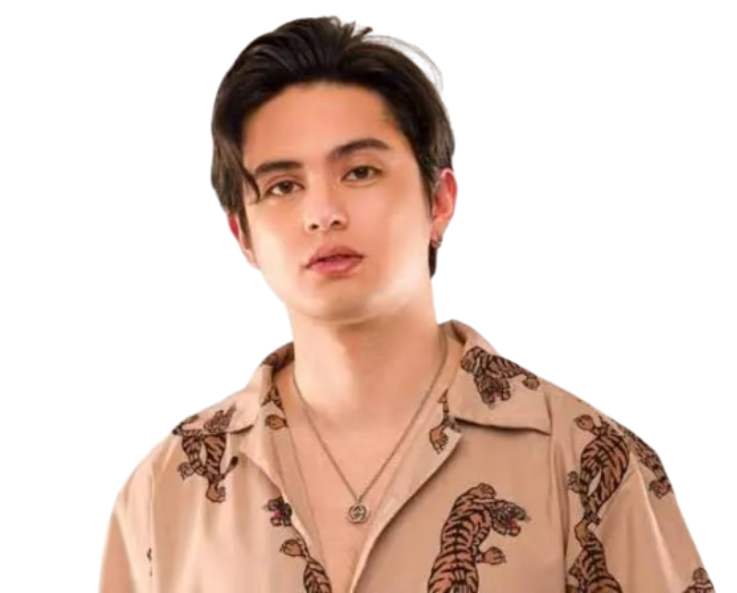
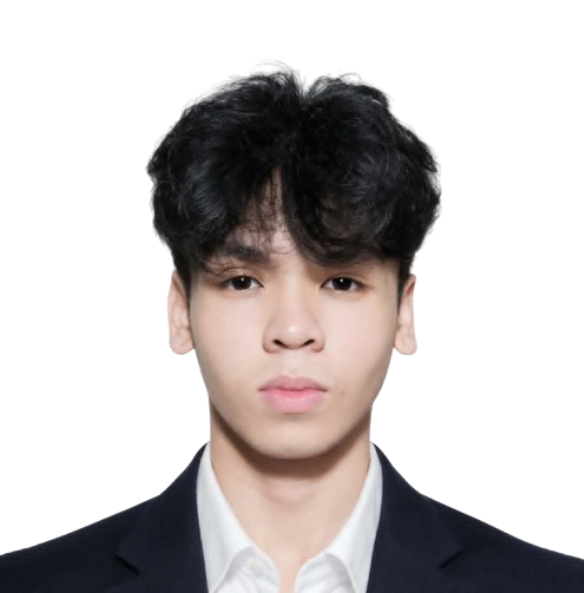
Add Works component with styling and integrate into main layout

diff --git a/my-portfolio/src/components/Works.jsx b/my-portfolio/src/components/Works.jsx
@@ -1,0 +1,128 @@
+import React, { useState } from "react";
+import "./Works.css";
+
+import taskManagerImg from "../assets/task-manager.png";
+import productCatalogImg from "../assets/product-catalog.png";
+import birthdayAppImg from "../assets/birthday-app.png";
+import gameTrackerImg from "../assets/game-tracker.png";
+
+export default function Works() {
+  const [activeFilter, setActiveFilter] = useState("all");
+
+  const projects = [
+    {
+      id: 1,
+      title: "Task Manager App",
+      category: "laravel-react",
+      categoryLabel: "React & Laravel",
+      tags: ["React", "Laravel", "REST API", "Tailwind/CSS"],
+      image: taskManagerImg,
+      github:
+        "https://github.com/VinceAng02/React-and-Laravel-Utlizing-the-backend-of-the-system-with-laravel.git",
+    },
+    {
+      id: 2,
+      title: "E-Commerce Product Catalog",
+      category: "web-apps",
+      categoryLabel: "Web Application",
+      tags: ["JavaScript", "HTML/CSS", "Product Catalog", "Interactive UI"],
+      image: productCatalogImg,
+      github:
+        "https://github.com/VinceAng02/React-Fetch-API-Utilizing-the-get-and-post-method-using-API-via-mock-data.git",
+    },
+    {
+      id: 3,
+      title: "Princess Day Celebration App",
+      category: "web-apps",
+      categoryLabel: "Interactive Celebration App",
+      tags: ["React", "CSS Animations", "Audio API", "UI/UX"],
+      image: birthdayAppImg,
+      github: "https://github.com/VinceAng02/HappyBirthdayGreetins",
+    },
+    {
+      id: 4,
+      title: "Game Tracking Clock",
+      category: "web-apps",
+      categoryLabel: "Cyberpunk Game Utility",
+      tags: ["React", "JavaScript", "Game Mechanics", "Dark Theme"],
+      image: gameTrackerImg,
+      github: "https://github.com/VinceAng02/Chrono-Grimoires-Game-Clock",
+    },
+  ];
+
+  const filterCategories = [
+    { id: "all", label: "All Works" },
+    { id: "laravel-react", label: "React & Laravel" },
+    { id: "web-apps", label: "Web Applications" },
+  ];
+
+  const filteredProjects =
+    activeFilter === "all"
+      ? projects
+      : projects.filter((project) => project.category === activeFilter);
+
+  return (
+    <section id="works" className="works-section">
+      <div className="works-container">
+        <h2 className="section-title">Works</h2>
+        <span className="section-subtitle">My Portfolio Projects</span>
+
+        {/* Category Filter Card Holder */}
+        <div className="works-filters">
+          {filterCategories.map((filter) => (
+            <button
+              key={filter.id}
+              className={`filter-btn ${
+                activeFilter === filter.id ? "active" : ""
+              }`}
+              onClick={() => setActiveFilter(filter.id)}
+            >
+              {filter.label}
+            </button>
+          ))}
+        </div>
+
+        {/* Project Cards */}
+        <div className="works-grid">
+          {filteredProjects.map((project) => (
+            <div key={project.id} className="work-card">
+              <div className="work-img-wrapper">
+                <img
+                  src={project.image}
+                  alt={project.title}
+                  className="work-img"
+                />
+                <span className="work-badge">{project.categoryLabel}</span>
+              </div>
+
+              <div className="work-details">
+                <h3 className="work-title">{project.title}</h3>
+
+                {/* Tech Tags */}
+                <div className="work-tags">
+                  {project.tags.map((tag, idx) => (
+                    <span key={idx} className="tech-tag">
+                      {tag}
+                    </span>
+                  ))}
+                </div>
+
+                {/* GitHub Link Button */}
+                <div className="work-buttons">
+                  <a
+                    href={project.github}
+                    target="_blank"
+                    rel="noopener noreferrer"
+                    className="btn-work-secondary"
+                  >
+                    View on GitHub →
+                  </a>
+                </div>
+              </div>
+            </div>
+          ))}
+        </div>
+      </div>
+    </section>
+  );
+}

diff --git a/my-portfolio/src/components/Works.css b/my-portfolio/src/components/Works.css
@@ -1,0 +1,160 @@
+.works-section {
+    padding: 5rem 2rem;
+    max-width: 1100px;
+    margin: 0 auto;
+  }
+  
+  /* Category Filter Tabs */
+  .works-filters {
+    display: flex;
+    justify-content: center;
+    flex-wrap: wrap;
+    gap: 0.75rem;
+    margin-bottom: 3rem;
+  }
+  
+  .filter-btn {
+    background-color: #f8fafc;
+    border: 1px solid #e2e8f0;
+    color: #64748b;
+    padding: 0.5rem 1.25rem;
+    border-radius: 2rem;
+    font-size: 0.9rem;
+    font-weight: 500;
+    cursor: pointer;
+    transition: all 0.25s ease;
+  }
+  
+  .filter-btn:hover {
+    border-color: #2563eb;
+    color: #2563eb;
+  }
+  
+  .filter-btn.active {
+    background-color: #2563eb;
+    border-color: #2563eb;
+    color: #ffffff;
+    box-shadow: 0 4px 12px rgba(37, 99, 235, 0.2);
+  }
+  
+  /* Card Holder Grid */
+  .works-grid {
+    display: grid;
+    grid-template-columns: repeat(auto-fill, minmax(310px, 1fr));
+    gap: 2rem;
+  }
+  
+  .work-card {
+    background-color: #ffffff;
+    border: 1px solid #e2e8f0;
+    border-radius: 1rem;
+    overflow: hidden;
+    display: flex;
+    flex-direction: column;
+    transition: transform 0.3s ease, box-shadow 0.3s ease;
+  }
+  
+  .work-card:hover {
+    transform: translateY(-6px);
+    box-shadow: 0 12px 24px -6px rgba(0, 0, 0, 0.08);
+  }
+  
+  .work-img-wrapper {
+    position: relative;
+    width: 100%;
+    height: 200px;
+    overflow: hidden;
+    background-color: #f1f5f9;
+  }
+  
+  .work-img {
+    width: 100%;
+    height: 100%;
+    object-fit: cover;
+    transition: transform 0.4s ease;
+  }
+  
+  .work-card:hover .work-img {
+    transform: scale(1.05);
+  }
+  
+  .work-badge {
+    position: absolute;
+    top: 0.75rem;
+    right: 0.75rem;
+    background-color: rgba(15, 23, 42, 0.85);
+    color: #ffffff;
+    font-size: 0.75rem;
+    font-weight: 600;
+    padding: 0.35rem 0.75rem;
+    border-radius: 1rem;
+    backdrop-filter: blur(4px);
+  }
+  
+  .work-details {
+    padding: 1.5rem;
+    display: flex;
+    flex-direction: column;
+    flex-grow: 1;
+  }
+  
+  .work-title {
+    font-size: 1.2rem;
+    font-weight: 700;
+    color: #1e293b;
+    margin: 0 0 0.75rem 0;
+  }
+  
+  .work-tags {
+    display: flex;
+    flex-wrap: wrap;
+    gap: 0.5rem;
+    margin-bottom: 1.5rem;
+  }
+  
+  .tech-tag {
+    background-color: #eff6ff;
+    color: #2563eb;
+    font-size: 0.75rem;
+    font-weight: 600;
+    padding: 0.25rem 0.6rem;
+    border-radius: 0.375rem;
+  }
+  
+  .work-buttons {
+    display: flex;
+    gap: 0.75rem;
+    margin-top: auto;
+  }
+  
+  .btn-work-primary,
+  .btn-work-secondary {
+    flex: 1;
+    text-align: center;
+    padding: 0.55rem 1rem;
+    font-size: 0.875rem;
+    font-weight: 600;
+    border-radius: 0.5rem;
+    text-decoration: none;
+    transition: all 0.2s ease;
+  }
+  
+  .btn-work-primary {
+    background-color: #2563eb;
+    color: #ffffff;
+  }
+  
+  .btn-work-primary:hover {
+    background-color: #1d4ed8;
+  }
+  
+  .btn-work-secondary {
+    background-color: #ffffff;
+    color: #475569;
+    border: 1px solid #cbd5e1;
+  }
+  
+  .btn-work-secondary:hover {
+    background-color: #f8fafc;
+    color: #1e293b;
+  }

diff --git a/my-portfolio/src/App.jsx b/my-portfolio/src/App.jsx
@@ -3,6 +3,7 @@ import Navbar from './components/Navbar';
 import Home from './components/Home';
 import About from './components/About';
 import Skills from './components/Skills';
+import Works from './components/Works';
 
 export default function App() {
   const [activeSection, setActiveSection] = useState('home');
@@ -14,6 +15,7 @@ export default function App() {
         <Home setActiveSection={setActiveSection} />
         <About />
         <Skills />
+        <Works />
       </main>
     </div>
   );

diff --git a/my-portfolio/src/components/Navbar.jsx b/my-portfolio/src/components/Navbar.jsx
@@ -8,6 +8,7 @@ export default function Navbar({ activeSection, setActiveSection }) {
     { id: "home", label: "Home" },
     { id: "about", label: "About" },
     { id: "skills", label: "Skills" },
+    { id: "works", label: "Works" },
   ];
 
   const handleScrollTo = (id) => {
